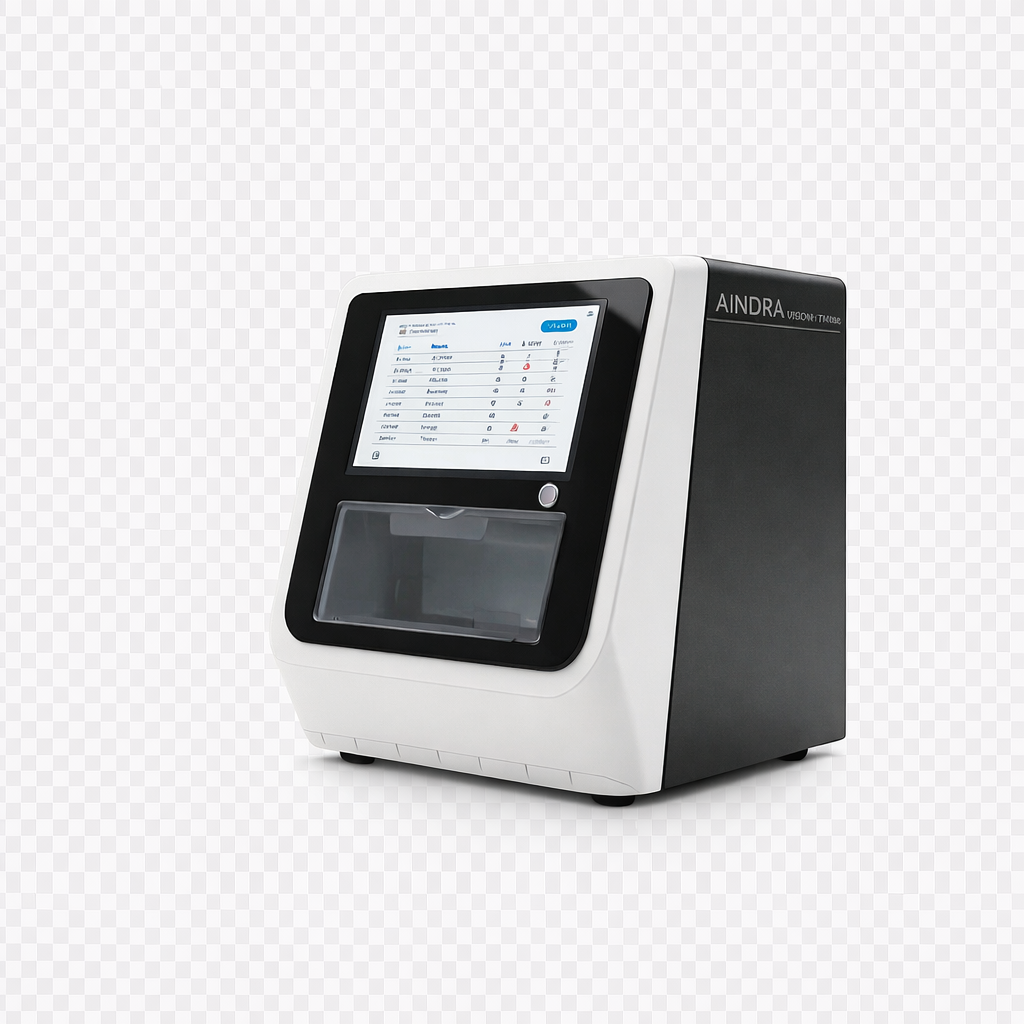
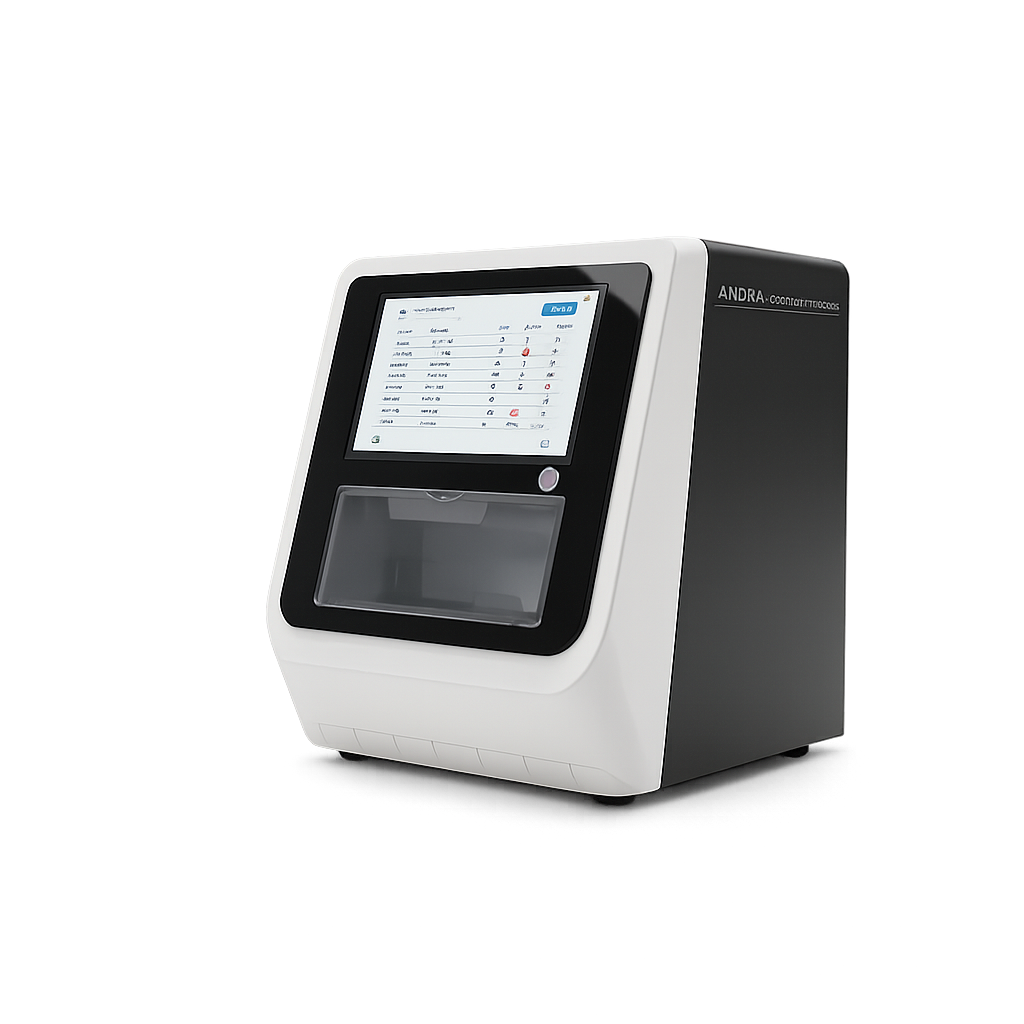
Fix product specs images to match selected variants

diff --git a/AindraNewWebsite_Final/pages/visionx/components/Hero.tsx b/AindraNewWebsite_Final/pages/visionx/components/Hero.tsx
@@ -5,6 +5,7 @@ import visionXFImage from '../../../assets/ProductImages/FWSI.jpg';
 import { sectionContainerWide, sectionShell } from '../../../components/layout';
 
 export const VISIONX_VARIANT_EVENT = 'visionx:variant-change';
+export type VisionXVariant = 'VX1' | 'VX6' | 'VX mini' | 'VXF';
 
 interface ProductCardProps {
   name: string;
@@ -47,22 +48,37 @@ const ProductCard: React.FC<ProductCardProps> = ({
 interface HeroProps {
   onTabChange?: (tab: string) => void;
   activeTab?: string;
+  activeVariant?: VisionXVariant;
+  onVariantChange?: (variant: VisionXVariant) => void;
 }
 
-const Hero: React.FC<HeroProps> = ({ onTabChange, activeTab = 'OVERVIEW' }) => {
-  const [activeVariant, setActiveVariant] = useState('VX1');
+const Hero: React.FC<HeroProps> = ({
+  onTabChange,
+  activeTab = 'OVERVIEW',
+  activeVariant,
+  onVariantChange,
+}) => {
+  const [internalActiveVariant, setInternalActiveVariant] = useState<VisionXVariant>('VX1');
+  const selectedVariant = activeVariant ?? internalActiveVariant;
 
   const variants = [
-    { id: 'VX1', label: 'VX1', image: visionXImage, softenBackground: false },
-    { id: 'VX6', label: 'VX6', image: visionX6Image, softenBackground: false },
-    { id: 'VX mini', label: 'VX mini', image: visionXImage, softenBackground: false },
-    { id: 'VXF', label: 'VXF', image: visionXFImage, softenBackground: true }
+    { id: 'VX1' as VisionXVariant, label: 'VX1', image: visionXImage, softenBackground: false },
+    { id: 'VX6' as VisionXVariant, label: 'VX6', image: visionX6Image, softenBackground: false },
+    { id: 'VX mini' as VisionXVariant, label: 'VX mini', image: visionXImage, softenBackground: false },
+    { id: 'VXF' as VisionXVariant, label: 'VXF', image: visionXFImage, softenBackground: true }
   ];
-  const activeVariantData = variants.find((variant) => variant.id === activeVariant) ?? variants[0];
+  const activeVariantData = variants.find((variant) => variant.id === selectedVariant) ?? variants[0];
+
+  const handleVariantSelect = (variant: VisionXVariant) => {
+    if (activeVariant === undefined) {
+      setInternalActiveVariant(variant);
+    }
+    onVariantChange?.(variant);
+  };
 
   React.useEffect(() => {
-    window.dispatchEvent(new CustomEvent(VISIONX_VARIANT_EVENT, { detail: activeVariant }));
-  }, [activeVariant]);
+    window.dispatchEvent(new CustomEvent(VISIONX_VARIANT_EVENT, { detail: selectedVariant }));
+  }, [selectedVariant]);
 
   const tabs = ['OVERVIEW', 'IMAGE QUALITY', 'SPECIFICATIONS', 'RESOURCES'];
 
@@ -78,8 +94,8 @@ const Hero: React.FC<HeroProps> = ({ onTabChange, activeTab = 'OVERVIEW' }) => {
               name={variant.label} 
               imageSrc={variant.image}
               softenBackground={variant.softenBackground}
-              active={activeVariant === variant.id}
-              onClick={() => setActiveVariant(variant.id)}
+              active={selectedVariant === variant.id}
+              onClick={() => handleVariantSelect(variant.id)}
             />
           ))}
         </div>
@@ -90,7 +106,7 @@ const Hero: React.FC<HeroProps> = ({ onTabChange, activeTab = 'OVERVIEW' }) => {
         {/* Left Content */}
         <div className="w-full md:w-1/2 z-10 pr-0 md:pr-14 lg:pr-20">
           <h1 className="text-3xl sm:text-4xl md:text-6xl lg:text-7xl font-bold tracking-tight text-gray-900 mb-6 md:mb-8 leading-tight">
-            VisionX {activeVariant === 'VX1' ? '1 slide' : activeVariant}
+            VisionX {selectedVariant === 'VX1' ? '1 slide' : selectedVariant}
           </h1>
           <div className="w-24 h-[1px] bg-gray-200 mb-8"></div>
           <p className="text-lg md:text-xl text-gray-500 font-normal leading-relaxed max-w-[540px]">
@@ -113,9 +129,9 @@ const Hero: React.FC<HeroProps> = ({ onTabChange, activeTab = 'OVERVIEW' }) => {
           {/* Machine Image */}
           <div className="relative z-10 w-[260px] sm:w-[340px] md:w-[450px] drop-shadow-2xl transition-all duration-700 ease-in-out transform">
             <img
-              key={activeVariant}
+              key={selectedVariant}
               src={activeVariantData.image}
-              alt={`VisionX ${activeVariant} Device`}
+              alt={`VisionX ${selectedVariant} Device`}
               className={`w-full h-auto object-contain animate-in fade-in duration-700 ${activeVariantData.softenBackground ? 'mix-blend-multiply' : ''}`}
             />
           </div>

diff --git a/AindraNewWebsite_Final/pages/intellistain/components/Hero.tsx b/AindraNewWebsite_Final/pages/intellistain/components/Hero.tsx
@@ -5,6 +5,7 @@ import intellistain30Image from '../../../assets/ProductImages/IS-30.png';
 import { sectionContainerWide, sectionShell } from '../../../components/layout';
 
 export const INTELLISTAIN_VARIANT_EVENT = 'intellistain:variant-change';
+export type IntellistainVariant = 'IS15' | 'IS30';
 
 interface ProductCardProps {
   name: string;
@@ -40,20 +41,35 @@ const ProductCard: React.FC<ProductCardProps> = ({ name, imageSrc, active = fals
 interface HeroProps {
   onTabChange?: (tab: string) => void;
   activeTab?: string;
+  activeVariant?: IntellistainVariant;
+  onVariantChange?: (variant: IntellistainVariant) => void;
 }
 
-const Hero: React.FC<HeroProps> = ({ onTabChange, activeTab = 'OVERVIEW' }) => {
-  const [activeVariant, setActiveVariant] = useState('IS15');
+const Hero: React.FC<HeroProps> = ({
+  onTabChange,
+  activeTab = 'OVERVIEW',
+  activeVariant,
+  onVariantChange,
+}) => {
+  const [internalActiveVariant, setInternalActiveVariant] = useState<IntellistainVariant>('IS15');
+  const selectedVariant = activeVariant ?? internalActiveVariant;
 
   const variants = [
-    { id: 'IS15', label: 'IS15', image: intellistain15Image },
-    { id: 'IS30', label: 'IS30', image: intellistain30Image }
+    { id: 'IS15' as IntellistainVariant, label: 'IS15', image: intellistain15Image },
+    { id: 'IS30' as IntellistainVariant, label: 'IS30', image: intellistain30Image }
   ];
-  const activeVariantData = variants.find((variant) => variant.id === activeVariant) ?? variants[0];
+  const activeVariantData = variants.find((variant) => variant.id === selectedVariant) ?? variants[0];
+
+  const handleVariantSelect = (variant: IntellistainVariant) => {
+    if (activeVariant === undefined) {
+      setInternalActiveVariant(variant);
+    }
+    onVariantChange?.(variant);
+  };
 
   React.useEffect(() => {
-    window.dispatchEvent(new CustomEvent(INTELLISTAIN_VARIANT_EVENT, { detail: activeVariant }));
-  }, [activeVariant]);
+    window.dispatchEvent(new CustomEvent(INTELLISTAIN_VARIANT_EVENT, { detail: selectedVariant }));
+  }, [selectedVariant]);
 
   const tabs = ['OVERVIEW', 'STAINING QUALITY', 'SPECIFICATIONS', 'RESOURCES'];
 
@@ -68,8 +84,8 @@ const Hero: React.FC<HeroProps> = ({ onTabChange, activeTab = 'OVERVIEW' }) => {
               key={variant.id}
               name={variant.label} 
               imageSrc={variant.image}
-              active={activeVariant === variant.id}
-              onClick={() => setActiveVariant(variant.id)}
+              active={selectedVariant === variant.id}
+              onClick={() => handleVariantSelect(variant.id)}
             />
           ))}
         </div>
@@ -80,7 +96,7 @@ const Hero: React.FC<HeroProps> = ({ onTabChange, activeTab = 'OVERVIEW' }) => {
         {/* Left Content */}
         <div className="w-full md:w-1/2 z-10 pr-0 md:pr-14 lg:pr-20">
           <h1 className="text-3xl sm:text-4xl md:text-6xl lg:text-7xl font-bold tracking-tight text-gray-900 mb-6 md:mb-8 leading-tight">
-            Intellistain {activeVariant === 'IS15' ? '15 slide' : '30 slide'}
+            Intellistain {selectedVariant === 'IS15' ? '15 slide' : '30 slide'}
           </h1>
           <div className="w-24 h-[1px] bg-gray-200 mb-8"></div>
           <p className="text-lg md:text-xl text-gray-500 font-normal leading-relaxed max-w-[540px]">
@@ -101,9 +117,9 @@ const Hero: React.FC<HeroProps> = ({ onTabChange, activeTab = 'OVERVIEW' }) => {
           
           <div className="relative z-10 w-[260px] sm:w-[340px] md:w-[450px] drop-shadow-2xl transition-all duration-700 ease-in-out transform">
             <img
-              key={activeVariant}
+              key={selectedVariant}
               src={activeVariantData.image}
-              alt={`Intellistain ${activeVariant} Device`}
+              alt={`Intellistain ${selectedVariant} Device`}
               className="w-full h-auto object-contain animate-in fade-in duration-700"
             />
           </div>

diff --git a/AindraNewWebsite_Final/pages/visionx/components/SpecificationsSection.tsx b/AindraNewWebsite_Final/pages/visionx/components/SpecificationsSection.tsx
@@ -1,4 +1,8 @@
 import React from 'react';
+import visionX1Image from '../../../assets/ProductImages/VisionX2 (1).png';
+import visionX6Image from '../../../assets/ProductImages/VX6.png';
+import visionXFImage from '../../../assets/ProductImages/FWSI.jpg';
+import type { VisionXVariant } from './Hero';
 
 interface SpecRowProps {
   label: string;
@@ -24,7 +28,20 @@ const SectionHeader: React.FC<{ title: string }> = ({ title }) => (
   </div>
 );
 
-const SpecificationsSection: React.FC = () => {
+interface SpecificationsSectionProps {
+  activeVariant?: VisionXVariant;
+}
+
+const variantImageMap: Record<VisionXVariant, { src: string; softenBackground: boolean }> = {
+  VX1: { src: visionX1Image, softenBackground: false },
+  VX6: { src: visionX6Image, softenBackground: false },
+  'VX mini': { src: visionX1Image, softenBackground: false },
+  VXF: { src: visionXFImage, softenBackground: true },
+};
+
+const SpecificationsSection: React.FC<SpecificationsSectionProps> = ({ activeVariant = 'VX1' }) => {
+  const imageConfig = variantImageMap[activeVariant] ?? variantImageMap.VX1;
+
   return (
     <section className="w-full bg-white px-4 md:px-6 lg:px-8 py-20 max-w-[1400px] mx-auto animate-in fade-in duration-700">
       {/* Top Heading */}
@@ -42,9 +59,9 @@ const SpecificationsSection: React.FC = () => {
           <div className="relative w-full max-w-[500px] mb-12 flex justify-center">
             <div className="relative border border-gray-200 rounded-lg p-10 bg-gray-50/30">
                <img 
-                src="https://images.unsplash.com/photo-1581093588401-fbb62a02f120?auto=format&fit=crop&q=80&w=600" 
-                alt="VisionX Device Diagram" 
-                className="w-full h-auto mix-blend-multiply opacity-80"
+                src={imageConfig.src}
+                alt={`VisionX ${activeVariant} Device Diagram`}
+                className={`w-full h-auto object-contain opacity-90 ${imageConfig.softenBackground ? 'mix-blend-multiply' : ''}`}
               />
               {/* Dimension indicators */}
               <div className="absolute left-full top-1/2 -translate-y-1/2 ml-4 flex flex-col items-center">

diff --git a/AindraNewWebsite_Final/pages/intellistain/components/SpecificationsSection.tsx b/AindraNewWebsite_Final/pages/intellistain/components/SpecificationsSection.tsx
@@ -1,5 +1,8 @@
 
 import React from 'react';
+import intellistain15Image from '../../../assets/ProductImages/IS-15.png';
+import intellistain30Image from '../../../assets/ProductImages/IS-30.png';
+import type { IntellistainVariant } from './Hero';
 
 interface SpecRowProps {
   label: string;
@@ -25,7 +28,18 @@ const SectionHeader: React.FC<{ title: string }> = ({ title }) => (
   </div>
 );
 
-const SpecificationsSection: React.FC = () => {
+interface SpecificationsSectionProps {
+  activeVariant?: IntellistainVariant;
+}
+
+const variantImageMap: Record<IntellistainVariant, string> = {
+  IS15: intellistain15Image,
+  IS30: intellistain30Image,
+};
+
+const SpecificationsSection: React.FC<SpecificationsSectionProps> = ({ activeVariant = 'IS15' }) => {
+  const specificationImage = variantImageMap[activeVariant] ?? variantImageMap.IS15;
+
   return (
     <section className="w-full bg-white px-4 md:px-6 lg:px-8 py-20 max-w-[1400px] mx-auto animate-in fade-in duration-700">
       {/* Top Heading */}
@@ -43,9 +57,9 @@ const SpecificationsSection: React.FC = () => {
           <div className="relative w-full max-w-[500px] mb-12 flex justify-center">
             <div className="relative border border-gray-200 rounded-lg p-10 bg-gray-50/30">
                <img 
-                src="https://images.unsplash.com/photo-1581093588401-fbb62a02f120?auto=format&fit=crop&q=80&w=600" 
-                alt="Intellistain Device Diagram" 
-                className="w-full h-auto mix-blend-multiply opacity-80"
+                src={specificationImage}
+                alt={`Intellistain ${activeVariant} Device Diagram`}
+                className="w-full h-auto object-contain opacity-90"
               />
               {/* Dimension indicators matching brochure Page 4 */}
               <div className="absolute left-full top-1/2 -translate-y-1/2 ml-4 flex flex-col items-center">

diff --git a/AindraNewWebsite_Final/pages/intellistain/App.tsx b/AindraNewWebsite_Final/pages/intellistain/App.tsx
@@ -4,6 +4,7 @@ import { Navbar } from '../../components/Navbar';
 import { sectionContainer, sectionShell } from '../../components/layout';
 import Breadcrumbs from './components/Breadcrumbs';
 import Hero from './components/Hero';
+import type { IntellistainVariant } from './components/Hero';
 import BenefitsSection from './components/BenefitsSection';
 import ImageQualitySection from './components/ImageQualitySection';
 import SpecificationsSection from './components/SpecificationsSection';
@@ -15,6 +16,7 @@ import AIAssistant from './components/AIAssistant';
 
 const App: React.FC = () => {
   const [activeSection, setActiveSection] = useState('OVERVIEW');
+  const [activeVariant, setActiveVariant] = useState<IntellistainVariant>('IS15');
 
   return (
     <div className="min-h-screen bg-white selection:bg-blue-100 selection:text-blue-900">
@@ -29,6 +31,8 @@ const App: React.FC = () => {
         <Hero 
           activeTab={activeSection} 
           onTabChange={setActiveSection} 
+          activeVariant={activeVariant}
+          onVariantChange={setActiveVariant}
         />
 
         {activeSection === 'OVERVIEW' ? (
@@ -36,7 +40,7 @@ const App: React.FC = () => {
         ) : activeSection === 'STAINING QUALITY' ? (
           <ImageQualitySection />
         ) : activeSection === 'SPECIFICATIONS' ? (
-          <SpecificationsSection />
+          <SpecificationsSection activeVariant={activeVariant} />
         ) : activeSection === 'RESOURCES' ? (
           <ResourcesSection />
         ) : (

diff --git a/AindraNewWebsite_Final/pages/visionx/App.tsx b/AindraNewWebsite_Final/pages/visionx/App.tsx
@@ -3,6 +3,7 @@ import { Navbar } from '../../components/Navbar';
 import { sectionContainer, sectionShell } from '../../components/layout';
 import Breadcrumbs from './components/Breadcrumbs';
 import Hero from './components/Hero';
+import type { VisionXVariant } from './components/Hero';
 import BenefitsSection from './components/BenefitsSection';
 import ImageQualitySection from './components/ImageQualitySection';
 import SpecificationsSection from './components/SpecificationsSection';
@@ -14,6 +15,7 @@ import AIAssistant from './components/AIAssistant';
 
 const App: React.FC = () => {
   const [activeSection, setActiveSection] = useState('OVERVIEW');
+  const [activeVariant, setActiveVariant] = useState<VisionXVariant>('VX1');
 
   return (
     <div className="min-h-screen bg-white selection:bg-blue-100 selection:text-blue-900">
@@ -28,6 +30,8 @@ const App: React.FC = () => {
         <Hero 
           activeTab={activeSection} 
           onTabChange={setActiveSection} 
+          activeVariant={activeVariant}
+          onVariantChange={setActiveVariant}
         />
 
         {activeSection === 'OVERVIEW' ? (
@@ -35,7 +39,7 @@ const App: React.FC = () => {
         ) : activeSection === 'IMAGE QUALITY' ? (
           <ImageQualitySection />
         ) : activeSection === 'SPECIFICATIONS' ? (
-          <SpecificationsSection />
+          <SpecificationsSection activeVariant={activeVariant} />
         ) : activeSection === 'RESOURCES' ? (
           <ResourcesSection />
         ) : (
